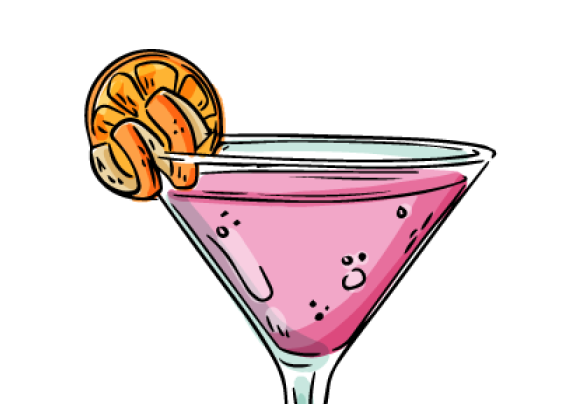
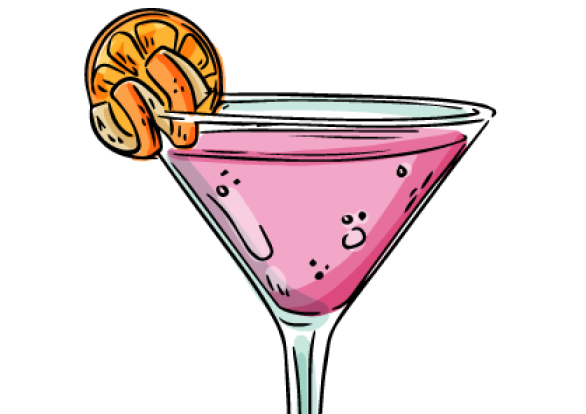
styling

diff --git a/src/css/style.css b/src/css/style.css
@@ -96,8 +96,8 @@ p {
 #champagne-img{
 	position: absolute;
 	bottom: 0;
-	width: 55%;
-	margin-left: 20%;
+	width: 40%;
+	margin-left: 25%;
 }
 
 .card{
@@ -269,7 +269,7 @@ a{
 @media screen and (width >=1024px) {
 
 	h1 {
-		font-size: 90px;
+		font-size: 80px;
 		margin-left: 50px;
 		margin-right: 50px;
 	}
@@ -339,5 +339,10 @@ a{
 		font-size: 30px;
 		padding: 20px;
 		border-radius: 10px;
+	}
+
+	#champagne-img {
+		width: 23%;
+		margin-left: 35%;
 	}
 }
